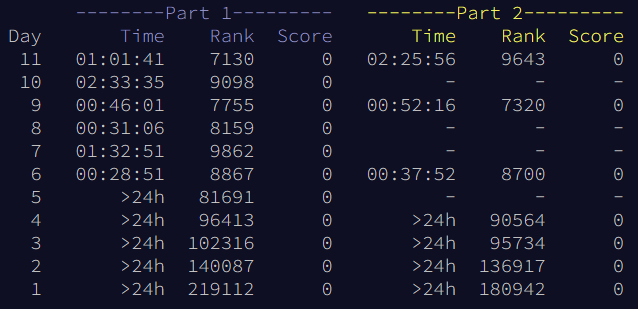
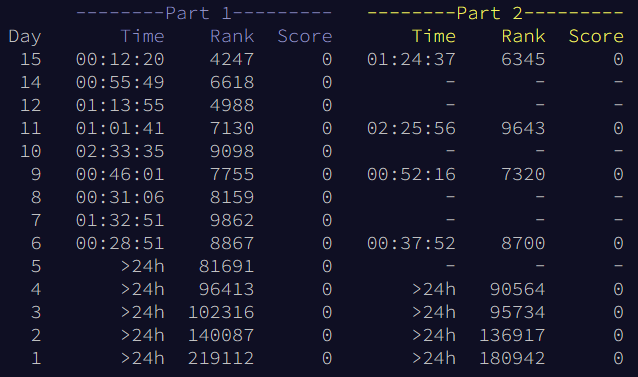
Finished Day 15 Part 1 and Part 2

diff --git a/Code/15-Part2.py b/Code/15-Part2.py
@@ -1,0 +1,75 @@
+import shared
+
+rows = shared.getInput('15.txt')[0]
+
+# Return the hash for a given string
+def getHash(string):
+    current_value = 0
+    for character in string:
+        current_value += ord(character)
+        current_value *= 17
+        current_value %= 256
+    return current_value
+
+
+# Loop through everything and do the necessary organizing
+hashmap = {}
+for thing in rows.split(','):
+    label = ''
+    value = ''
+    # Set the label and value
+    if '-' in thing:
+        label = thing.split('-')[0]
+    else:
+        label, value = thing.split('=')
+    
+    # Figure out the hashed version of the label to use as a key in the dictionary. This will be the box number
+    hashed_label = getHash(label)
+
+    # If the box number already exists in the dictionary
+    if hashed_label in hashmap.keys():
+        # If the value is nothing (i.e. we're removing a lens)
+        if value == '':
+            # If the label we need to do an operation on is actually in our values, 
+            if label in hashmap[hashed_label]:
+                # Split the values to make operations a little easier
+                split_values = hashmap[hashed_label].split()
+                index = 0
+                # Find the index of the lens that has our label
+                for i, v in enumerate(split_values):
+                    if label in v:
+                        index = i
+                # Remove the lens from the array
+                del split_values[index]
+                # Join everything back together and save it to the hashmap
+                hashmap[hashed_label] = ' '.join(split_values)
+        # Else, we're replacing a lens
+        else:
+            if label in hashmap[hashed_label]:
+                # Split the values to make operations a little easier
+                split_values = hashmap[hashed_label].split()
+                index = 0
+                # Find the index of the lens that has our label
+                for i, v in enumerate(split_values):
+                    if label in v:
+                        index = i
+                # Remove the lens from the array
+                del split_values[index]
+                # Add our new lens where we removed the old one
+                split_values.insert(index, f'{label}{value}')
+                # Join everything back together and save it to the hashmap
+                hashmap[hashed_label] = ' '.join(split_values)
+            else:
+                hashmap[hashed_label] += f'{label}{value}' if len(hashmap[hashed_label]) == 0 else f' {label}{value}'
+    # Otherwise, if the first thing is an addition and not an operation, add the box number and the first value
+    elif value != '':
+        hashmap[hashed_label] = f'{label}{value}'
+
+
+# Do all the requisite math to get our total 
+total = 0
+for k,v in hashmap.items():
+    for slot, lens in enumerate(v.split()):
+        total += (int(k) + 1) * (slot + 1) * int(lens[-1])
+
+print(total)

diff --git a/Code/test.py b/Code/test.py
@@ -1,3 +1,31 @@
+fuck = 'cd9 fg8 ht0 ji3'
+# fuck = 'cd9 fg8 ji3 ht0'
+label = 'ht0'
+value = '0'
+index = fuck.find(label)
+thing = fuck[:index-1] + fuck[index + len(label) + 1:]
+
+# thing = fuck[:index] + f'{label}{value}' + fuck[index + len(label) + 1:]
+
+# fuck = 'cd9 fg8 ht0 ji3'
+fuck = 'cd9 fg8 ji3 ht0'
+fuck = fuck.split()
+label = 'ht0'
+value = '0'
+index = fuck.index(label)
+del fuck[index]
+
+
+
+
+
+thing = ' '.join(fuck)
+print(thing)
+print(f'--{thing}--')
+input()
+
+
+
 thing = [1,2,3]
 shit = [3,2,1]
 

diff --git a/Code/15-Part1.py b/Code/15-Part1.py
@@ -1,0 +1,19 @@
+import shared
+from pprint import pprint
+
+rows = shared.getInput('15.txt')[0]
+
+# Return the hash for a given string
+def getHash(string):
+    current_value = 0
+    for character in string:
+        current_value += ord(character)
+        current_value *= 17
+        current_value %= 256
+    return current_value
+
+
+total = 0
+for thing in rows.split(','):
+    total += getHash(thing)
+print(total)
